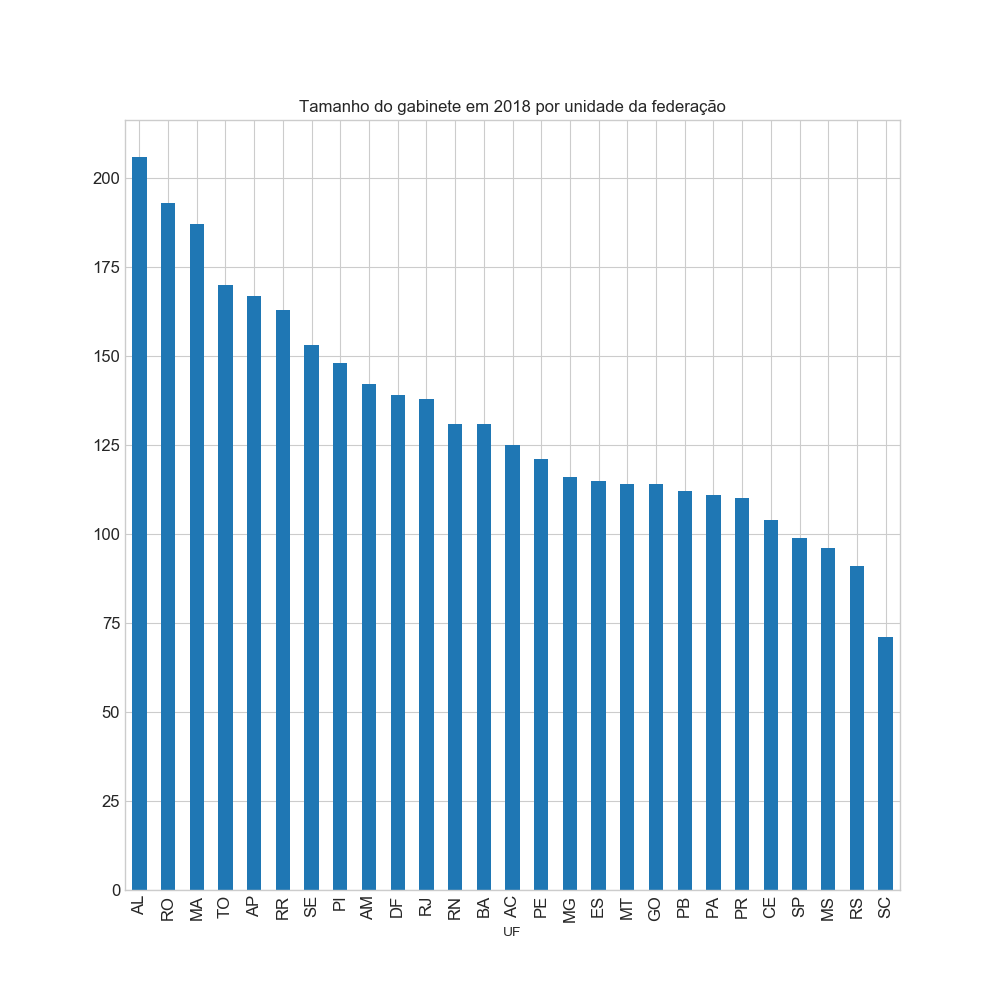
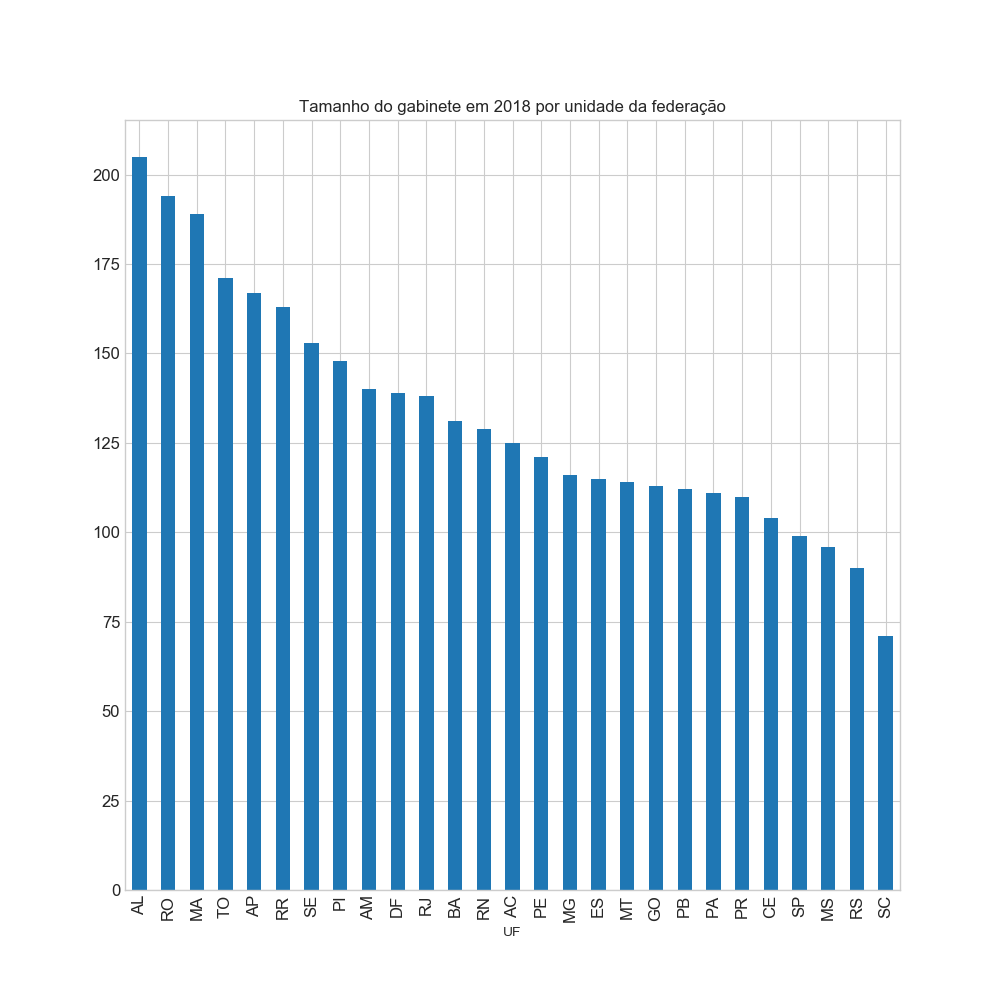
Atualização de dados do Senado (55)- auto

diff --git a/index.html b/index.html
@@ -29,9 +29,9 @@
       <div class="row"><b class="SenadoSubTitle">Informações de despesas de senadores</b><br></div>
       <div class="row"><b class="SenadoSubTitle">Dados coletados em 
 <!--Data-->       
-04/07/2018 às 
+05/07/2018 às 
 <!--Hora-->
-23:01:01      </b><br></div>
+10:42:40      </b><br></div>
       <br>
       <div class="TextoImagem">
         <center>
@@ -295,7 +295,7 @@
               <td align='left'>Titular</td>
               <td align='middle'>MA</td>
               <td align='left'>MDB</td>
-              <td align='right'>45 pessoas</td>
+              <td align='right'>46 pessoas</td>
               <td align='right'>0 meses</td>
             </tr>
             <tr>
@@ -361,7 +361,7 @@
               <td align='left'>Titular</td>
               <td align='middle'>RN</td>
               <td align='left'>PT</td>
-              <td align='right'>38 pessoas</td>
+              <td align='right'>36 pessoas</td>
               <td align='right'>41 meses</td>
             </tr>
             <tr>
@@ -383,7 +383,7 @@
               <td align='left'>Titular</td>
               <td align='middle'>AL</td>
               <td align='left'>PTC</td>
-              <td align='right'>89 pessoas</td>
+              <td align='right'>88 pessoas</td>
               <td align='right'>41 meses</td>
             </tr>
             <tr>
@@ -559,7 +559,7 @@
               <td align='left'>Titular</td>
               <td align='middle'>TO</td>
               <td align='left'>PDT</td>
-              <td align='right'>51 pessoas</td>
+              <td align='right'>52 pessoas</td>
               <td align='right'>26 meses</td>
             </tr>
             <tr>
@@ -603,7 +603,7 @@
               <td align='left'>Titular</td>
               <td align='middle'>GO</td>
               <td align='left'>PSB</td>
-              <td align='right'>31 pessoas</td>
+              <td align='right'>30 pessoas</td>
               <td align='right'>41 meses</td>
             </tr>
             <tr>
@@ -680,7 +680,7 @@
               <td align='left'>Titular</td>
               <td align='middle'>RS</td>
               <td align='left'>PT</td>
-              <td align='right'>44 pessoas</td>
+              <td align='right'>43 pessoas</td>
               <td align='right'>36 meses</td>
             </tr>
             <tr>
@@ -735,7 +735,7 @@
               <td align='left'>1º Suplente</td>
               <td align='middle'>RO</td>
               <td align='left'>PP</td>
-              <td align='right'>77 pessoas</td>
+              <td align='right'>78 pessoas</td>
               <td align='right'>0 meses</td>
             </tr>
             <tr>
@@ -812,7 +812,7 @@
               <td align='left'>Titular</td>
               <td align='middle'>MA</td>
               <td align='left'>PSDB</td>
-              <td align='right'>53 pessoas</td>
+              <td align='right'>54 pessoas</td>
               <td align='right'>35 meses</td>
             </tr>
             <tr>
@@ -933,7 +933,7 @@
               <td align='left'>Titular</td>
               <td align='middle'>AM</td>
               <td align='left'>PCdoB</td>
-              <td align='right'>66 pessoas</td>
+              <td align='right'>64 pessoas</td>
               <td align='right'>41 meses</td>
             </tr>
             <tr>
